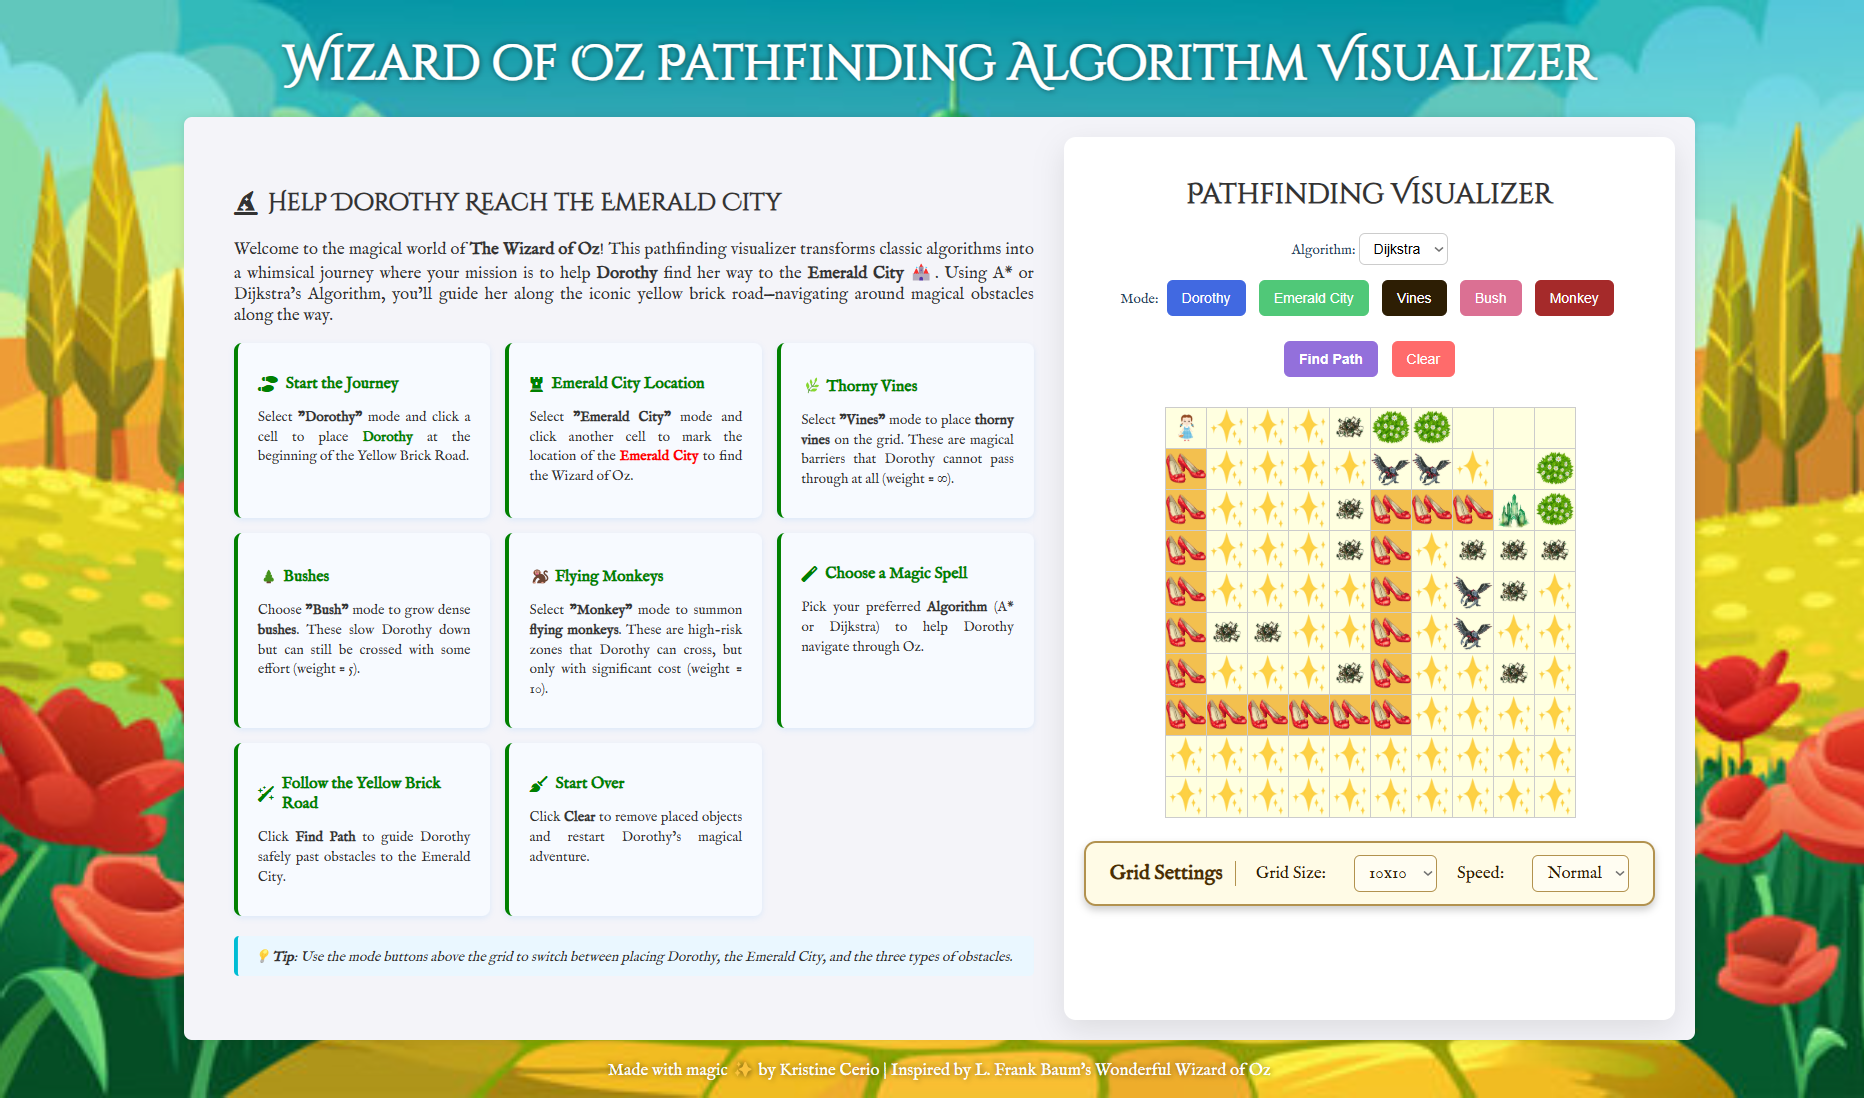
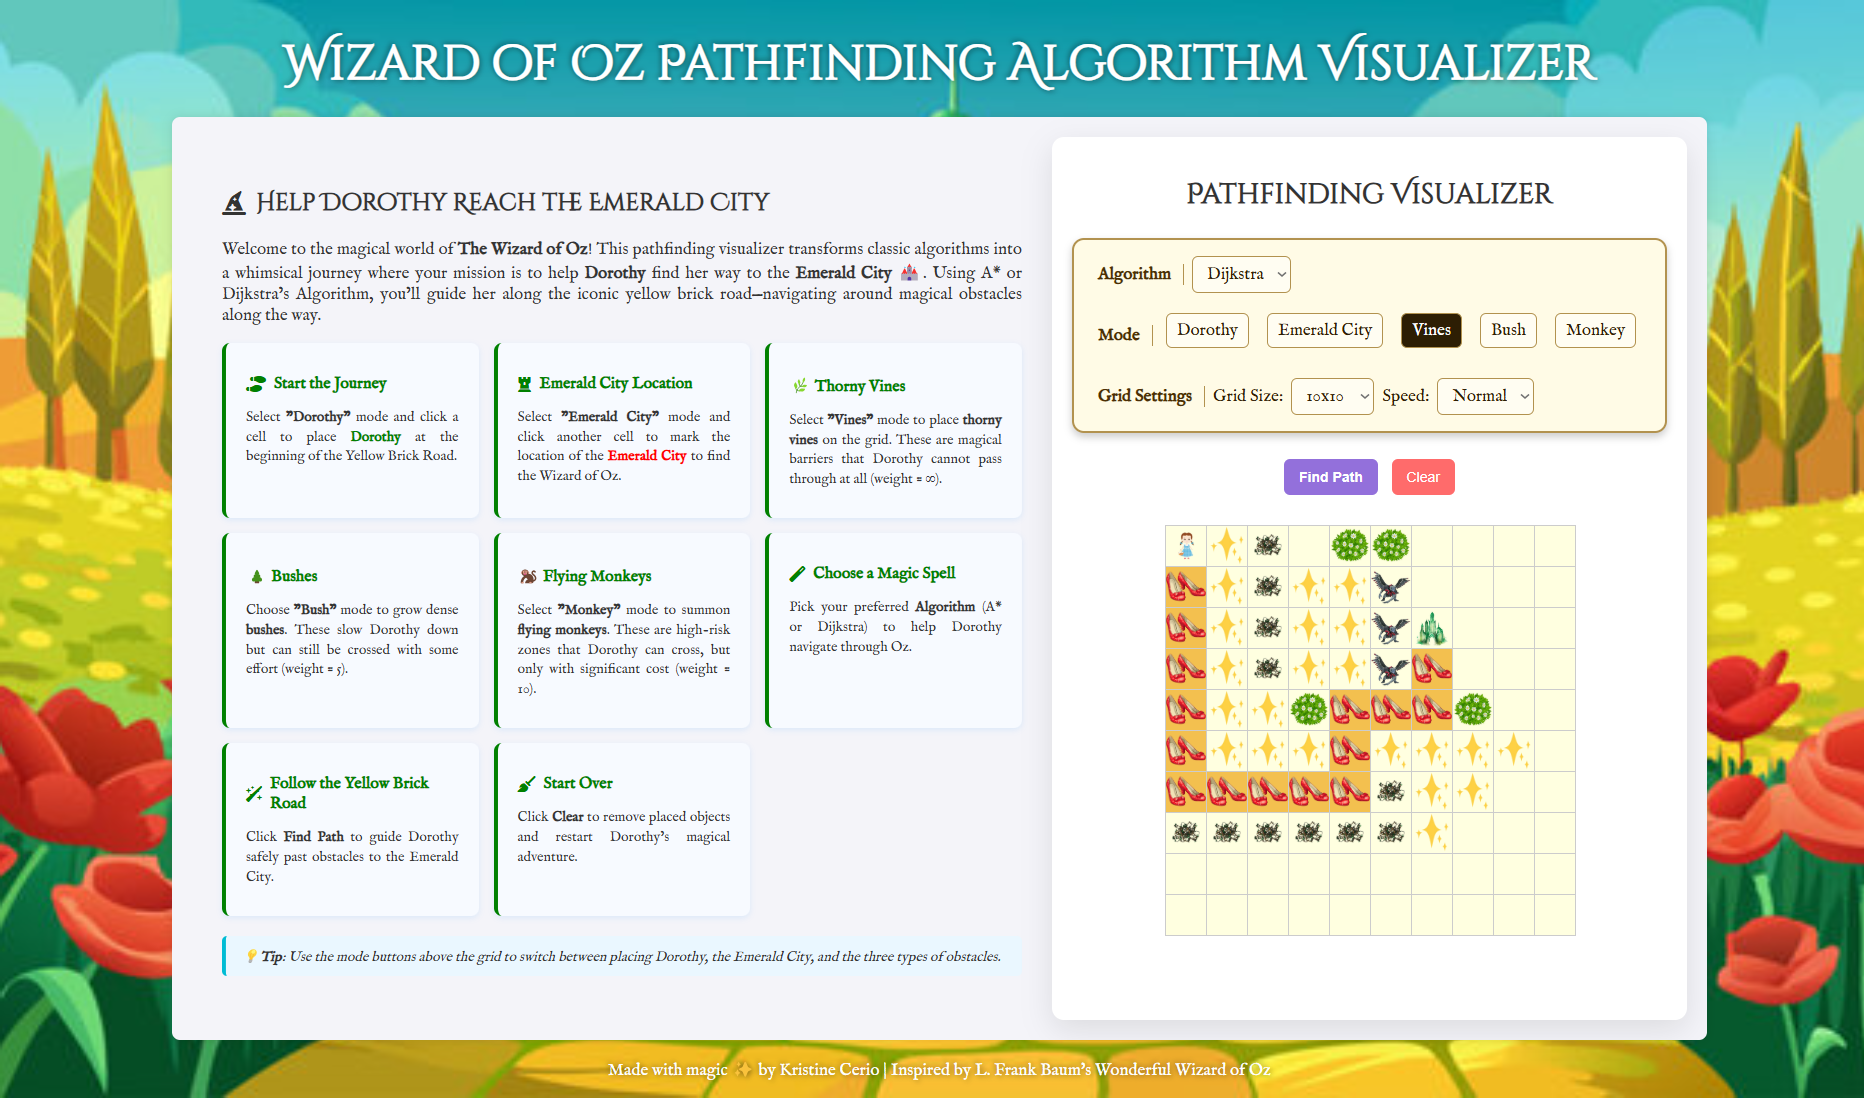
Changed the design of algorithm and mode settings and added screen recording in README

Changed region(s): [[0.0933, 0.0929, 0.9335, 0.9599]]

diff --git a/index.html b/index.html
@@ -4,6 +4,7 @@
   <meta charset="UTF-8" />
   <meta name="viewport" content="width=device-width, initial-scale=1.0"/>
   <title>Pathfinding Visualizer</title>
+  <link rel="icon" type="image/png" href="images/lab3_logo.png">
   <link rel="stylesheet" href="style.css" />
   <link rel="stylesheet" href="https://cdnjs.cloudflare.com/ajax/libs/font-awesome/6.4.0/css/all.min.css" />
   <link href="https://fonts.googleapis.com/css2?family=Cinzel+Decorative&family=IM+Fell+English&display=swap" rel="stylesheet">
@@ -65,49 +66,54 @@
           <p class="tip">💡<strong>Tip</strong>: Use the mode buttons above the grid to switch between placing Dorothy, the Emerald City, and the three types of obstacles.</p>
         </div>
 
-
     <div class="pathfinding-container">
-        <h1>Pathfinding Visualizer</h1>
-        <div class="algorithm-selector">
-        <label for="algorithm">Algorithm:</label>
-            <select id="algorithm">
-                <option value="astar">A*</option>
-                <option value="dijkstra">Dijkstra</option>
-            </select>
-        </div>
-        <div class="mode">
-          <label for="mode">Mode:</label>
-            <button id="start" class="start" title="Click to set the start point">Dorothy</button>
-            <button id="end" class="end"title="Click to set the end point">Emerald City</button>
-            <button id="wall" class="wall" title="Click to add thorny vines in the grid">Vines</button>
-            <button id="bush" class="bush" title="Click to toggle bushes in the grid">Bush</button>
-            <button id="monkey" class="monkey" title="Click to add flying monkeys in the grid">Monkey</button>
-        </div>
-        <div class="controls">
-            <button id="findPath" class="findPath" title="Click to find the shortest path">Find Path</button>
-            <button id="clear" class="clear" title="Clear the grid (start, end, walls)">Clear</button>
-        </div>
-        
-        <div id="grid"></div>
+      <h1>Pathfinding Visualizer</h1>
 
-        <div class="grid_settings">
+      <!-- Unified Controls Container -->
+      <div class="controls-container">
+        <div class="section">
+          <p>Algorithm</p>
+          <select aria-label="algorithm" id="algorithm">
+            <option value="astar">A*</option>
+            <option value="dijkstra">Dijkstra</option>
+          </select>
+        </div>
+
+        <div class="section">
+          <p>Mode</p>
+          <button id="start" class="start" title="Click to set the start point">Dorothy</button>
+          <button id="end" class="end" title="Click to set the end point">Emerald City</button>
+          <button id="wall" class="wall" title="Click to add thorny vines in the grid">Vines</button>
+          <button id="bush" class="bush" title="Click to toggle bushes in the grid">Bush</button>
+          <button id="monkey" class="monkey" title="Click to add flying monkeys in the grid">Monkey</button>
+        </div>
+
+        <div class="section">
           <p>Grid Settings</p>
           <label for="gridSize">Grid Size:</label>
-            <select id="gridSize">
-              <option value="10">10x10</option>
-              <option value="15">15x15</option>
-              <option value="20">20x20</option>
-            </select>
+          <select id="gridSize">
+            <option value="10">10x10</option>
+            <option value="15">15x15</option>
+            <option value="20">20x20</option>
+          </select>
 
-            <label for="speed">Speed:</label>
-              <select id="speed">
-                <option value="10">Fast</option>
-                <option value="20" selected>Normal</option>
-                <option value="40">Slow</option>
-              </select>
-
+          <label for="speed">Speed:</label>
+          <select id="speed">
+            <option value="10">Fast</option>
+            <option value="20" selected>Normal</option>
+            <option value="40">Slow</option>
+          </select>
         </div>
+      </div>
+
+      <div class="controls">
+          <button id="findPath" class="findPath" title="Click to find the shortest path">Find Path</button>
+          <button id="clear" class="clear" title="Clear the grid (start, end, walls)">Clear</button>
+      </div>
+
+      <div id="grid"></div>
     </div>
+
     </main>
 
     <footer>

diff --git a/style.css b/style.css
@@ -130,18 +130,83 @@ h1 {
   color: #333;
 }
 
-.algorithm-selector {
-  margin-bottom: 15px;
-  font-size: 14px;
-  color: #204059;
+.grid_settings p {
+  font-size: 1.2rem;
+  font-weight: bold;
+  color: #4b2e05;
+  margin: 0;
+  padding-right: 12px;
+  border-right: 1px solid #b2924f;
 }
 
-.algorithm-selector select {
+.grid_settings label {
+  margin: 0 8px 0 0;
+  font-size: 1rem;
+  color: #2d1e04;
+}
+
+.grid_settings select {
   padding: 6px 10px;
-  font-size: 14px;
+  font-size: 1rem;
   border-radius: 6px;
-  border: 1px solid #ccc;
-  background-color: #ffffff;
+  border: 1px solid #b2924f;
+  background-color: #fffdf2;
+  color: #2d1e04;
+  font-family: inherit;
+}
+
+.controls-container {
+  display: flex;
+  flex-wrap: nowrap;
+  flex-direction: column;
+  align-items: start;
+  gap: 20px;
+  background-color: #fffbe6; /* light parchment */
+  border: 2px solid #b2924f; /* golden-brown */
+  border-radius: 12px;
+  padding: 16px 24px;
+  margin: 1.5rem auto;
+  width: fit-content;
+  font-family: 'IM Fell English', serif;
+  box-shadow: 0 4px 8px rgba(0, 0, 0, 0.2);
+}
+
+/* Inner section groups for better structure */
+.controls-container .section {
+  display: flex;
+  align-items: center;
+  gap: 8px;
+  flex-wrap: wrap;
+}
+
+.controls-container label {
+  font-size: 1rem;
+  color: #2d1e04;
+}
+
+.controls-container select,
+.controls-container button {
+  padding: 6px 10px;
+  font-size: 1rem;
+  border-radius: 6px;
+  border: 1px solid #b2924f;
+  background-color: #fffdf2;
+  color: #2d1e04;
+  font-family: inherit;
+  cursor: pointer;
+}
+
+.controls-container button:hover {
+  background-color: #2d1e04;
+}
+
+.controls-container p {
+  font-size: 1rem;
+  font-weight: bold;
+  color: #4b2e05;
+  margin: 0;
+  padding-right: 12px;
+  border-right: 1px solid #b2924f;
 }
 
 
@@ -149,11 +214,6 @@ h1 {
   margin-bottom: 20px;
 }
 
-.mode {
-  margin-bottom: 15px;
-  font-size: 14px;
-  color: #204059;
-}
 
 button {
   margin: 0 5px 10px;
@@ -172,31 +232,6 @@ button:hover {
   color: white;
 }
 
-.start {
-  background-color: #4169E1;
-  color: white;
-}
-
-.end {
-  background-color: #50C878;
-  color: white;
-}
-
-.wall {
-  background-color:#2d1e04;
-  color: white;
-}
-
-.monkey {
-  background-color: brown;
-  color: white;
-}
-
-.bush {
-  background-color: #228B22;
-  color: white;
-}
-
 .clear {
   background-color: #ff6b6b;
   color: white;
@@ -207,6 +242,33 @@ button:hover {
   color: white;
   font-weight: bold;
 }
+
+/* Style for active buttons */
+.controls-container .start.active {
+  background-color: #4169E1;
+  color: white;
+}
+
+.controls-container .end.active {
+  background-color: #50C878;
+  color: white;
+}
+
+.controls-container .wall.active {
+  background-color:#2d1e04;
+  color: white;
+}
+
+.controls-container .monkey.active {
+  background-color: brown;
+  color: white;
+}
+
+.controls-container .bush.active {
+  background-color: #228B22;
+  color: white;
+}
+
 
 
 /* Grid Styling */
@@ -285,11 +347,6 @@ button:hover {
   background-color: #f3c04f;
 }
 
-/* Style for active buttons */
-.active {
-  background-color: palevioletred;
-  color: white;
-}
 
 .grid_settings {
   display: flex;
@@ -304,31 +361,6 @@ button:hover {
   font-family: 'IM Fell English', serif;
   box-shadow: 0 4px 8px rgba(0, 0, 0, 0.2);
   flex-wrap: wrap; /* allows wrapping on smaller screens */
-}
-
-.grid_settings p {
-  font-size: 1.2rem;
-  font-weight: bold;
-  color: #4b2e05;
-  margin: 0;
-  padding-right: 12px;
-  border-right: 1px solid #b2924f;
-}
-
-.grid_settings label {
-  margin: 0 8px 0 0;
-  font-size: 1rem;
-  color: #2d1e04;
-}
-
-.grid_settings select {
-  padding: 6px 10px;
-  font-size: 1rem;
-  border-radius: 6px;
-  border: 1px solid #b2924f;
-  background-color: #fffdf2;
-  color: #2d1e04;
-  font-family: inherit;
 }
 
 
@@ -360,3 +392,4 @@ footer{
     padding: 8px 12px;
   }
 }
+

diff --git a/README.md b/README.md
@@ -88,7 +88,7 @@ This visualizer is perfect for:
 
 ## 📸 Screenshots
 
-> Add screenshots or a screen recording here for visual impact.
+![Pathfinding Demo](images/screen_recording.gif)
 
 ---
 
